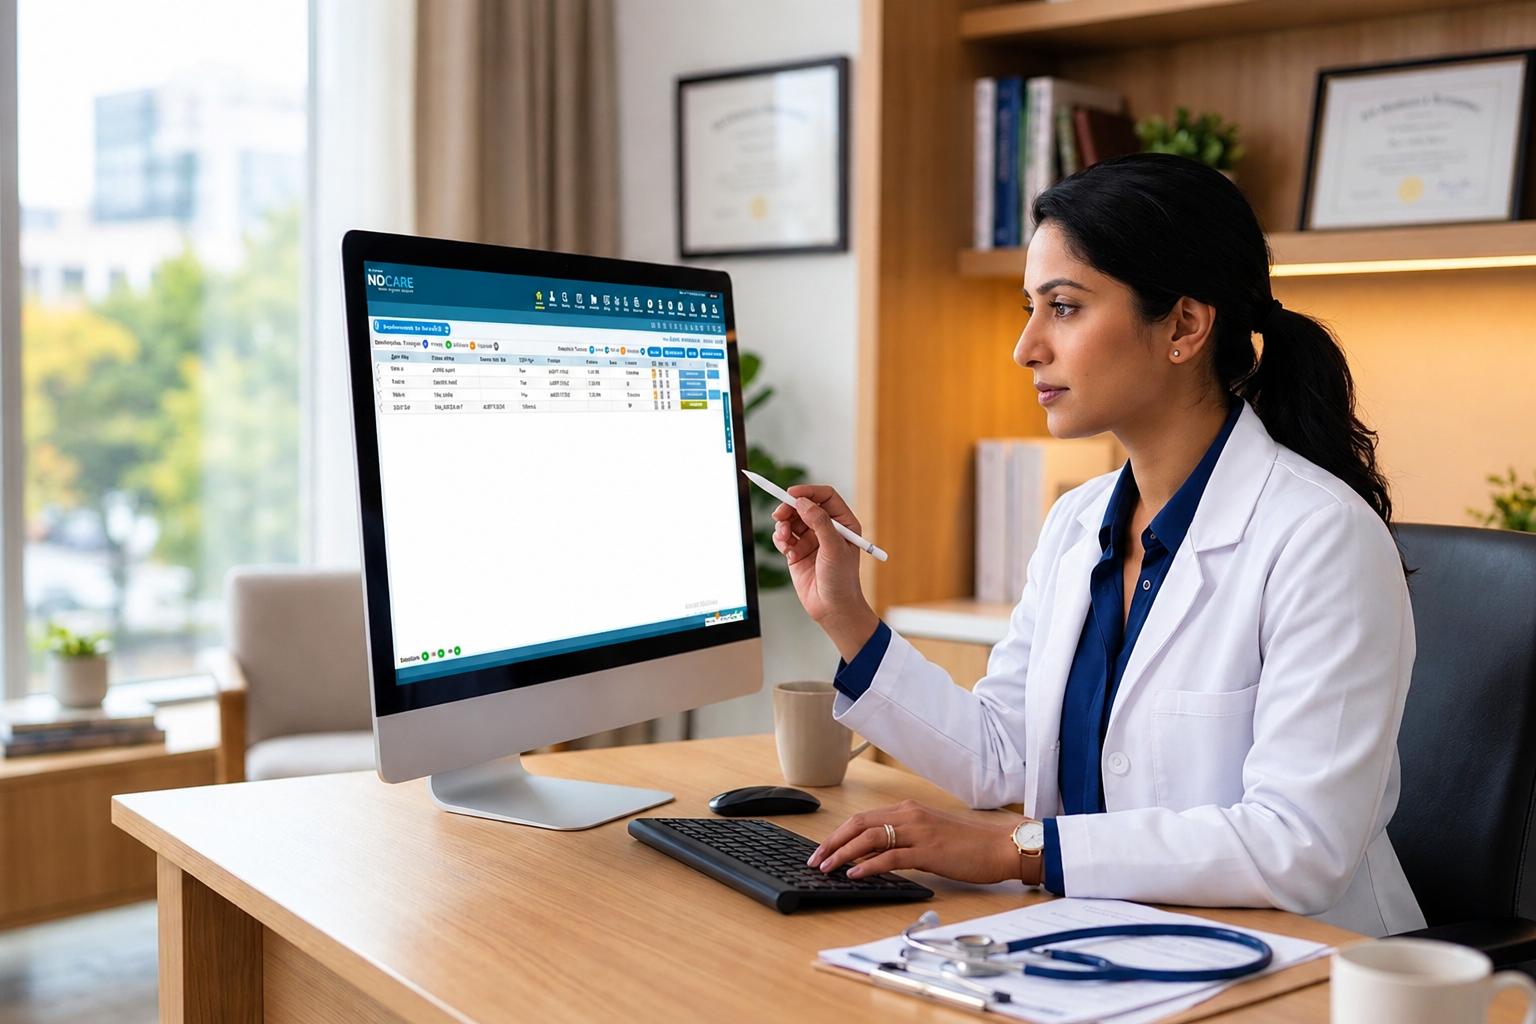
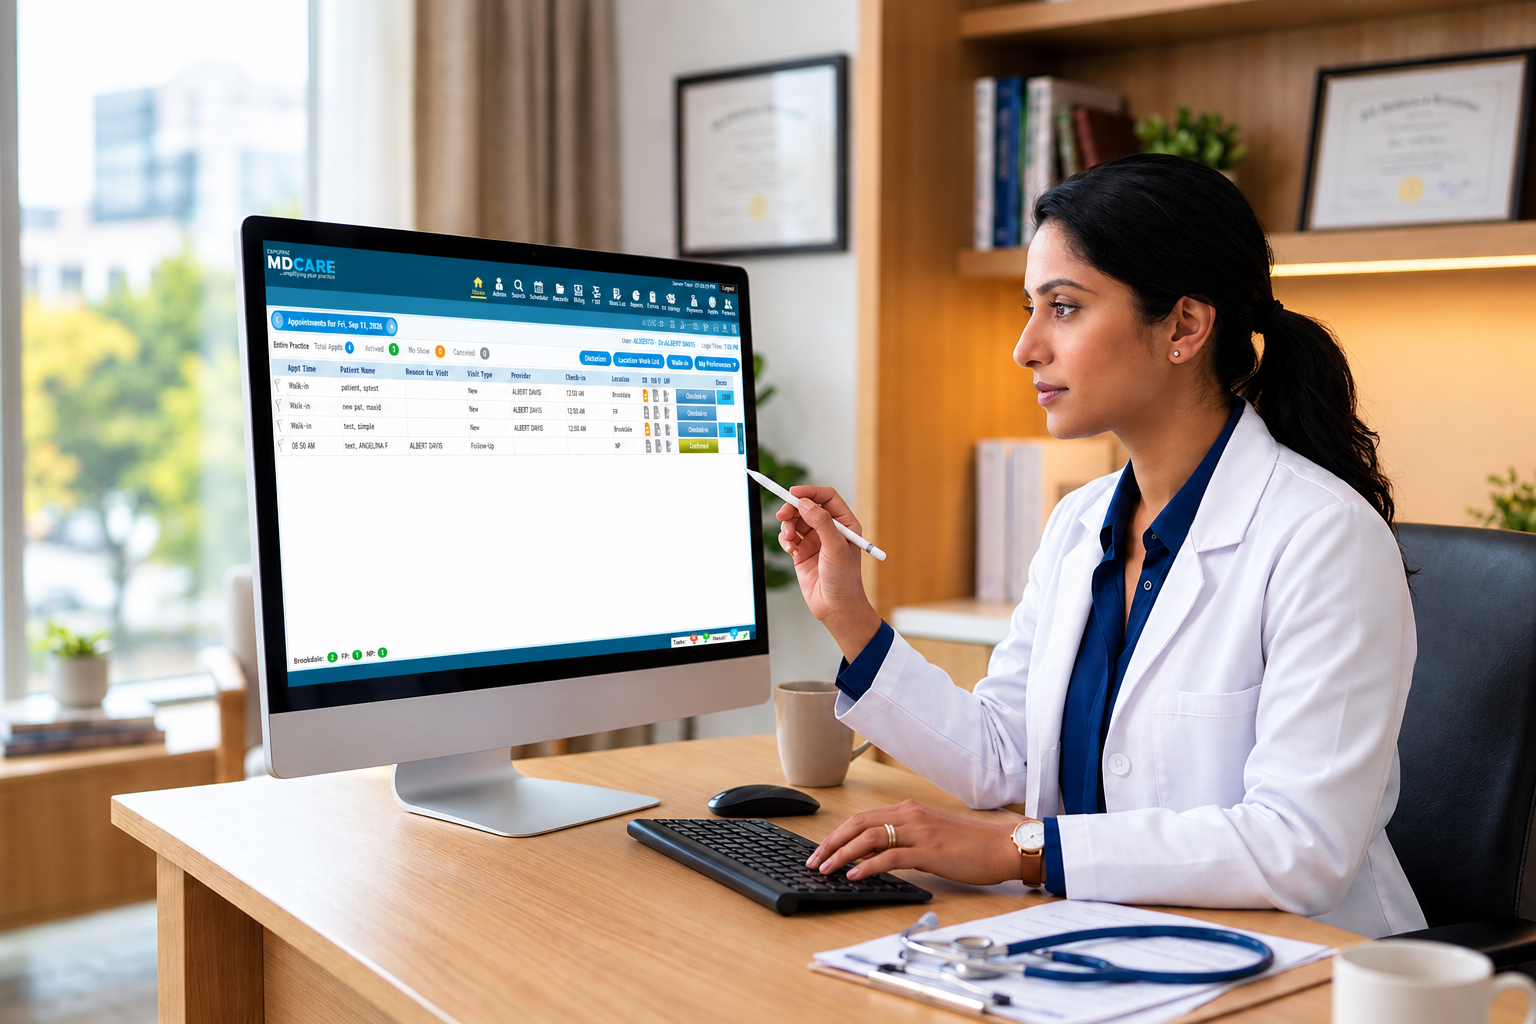
new
new

diff --git a/mdcarenewsite1/index.html b/mdcarenewsite1/index.html
@@ -37,7 +37,7 @@
 
       <a href="index.html" class="logo d-flex align-items-center me-auto me-xl-0">
 
-        <img src="assets/img/logo-w1.png" alt="" class="img-fluid w-100  logo-w">
+        <!-- <img src="assets/img/logo-w1.png" alt="" class="img-fluid w-100  logo-w"> -->
          <img src="assets/img/logo.png" alt="" class="img-fluid w-100  logo-normal">
 
       </a>
@@ -214,7 +214,7 @@
               </div>
             </div>
           </div>
-          <div class="carousel-item ">
+          <!-- <div class="carousel-item ">
             <img src="assets/img/slider/hero-bg2new.jpg" class="slider-home-bg" alt="Welcome to Our Website">
 
             <div class="carousel-caption">
@@ -242,7 +242,7 @@
                 </div>
               </div>
             </div>
-          </div>
+          </div> -->
 
           <!-- Slide 2 -->
           <!-- <div class="carousel-item">
@@ -301,16 +301,16 @@
         </div>
 
         <!-- Previous Button -->
-        <button class="carousel-control-prev" type="button" data-bs-target="#heroCarousel" data-bs-slide="prev">
+        <!-- <button class="carousel-control-prev" type="button" data-bs-target="#heroCarousel" data-bs-slide="prev">
           <span class="carousel-control-prev-icon" aria-hidden="true"></span>
           <span class="visually-hidden">Previous</span>
-        </button>
+        </button> -->
 
         <!-- Next Button -->
-        <button class="carousel-control-next" type="button" data-bs-target="#heroCarousel" data-bs-slide="next">
+        <!-- <button class="carousel-control-next" type="button" data-bs-target="#heroCarousel" data-bs-slide="next">
           <span class="carousel-control-next-icon" aria-hidden="true"></span>
           <span class="visually-hidden">Next</span>
-        </button>
+        </button> -->
 
       </div>
 

diff --git a/mdcarenewsite1/assets/css/main.css b/mdcarenewsite1/assets/css/main.css
@@ -585,11 +585,11 @@ a:hover {
   --nav-color: #3a3939;
   --nav-hover-color: #00aeef;
 }
-.logo-normal{ display: none;}
+/* .logo-normal{ display: none;}
 .logo-w{ display: none;}
 .index-page .logo-w{ display: block;}
 .index-page.scrolled .logo-normal{ display: block;}
-.index-page.scrolled .logo-w { display: none;}
+.index-page.scrolled .logo-w { display: none;} */
 
 .navmenu .dropdown ul a:hover, .navmenu .dropdown ul .active:hover, .navmenu .dropdown ul li:hover>a{  color: var(--text-secondary) !important;}
 /*--------------------------------------------------------------
@@ -3409,7 +3409,7 @@ section,
   content: "";
   position: absolute;
   inset: 0;
-  background: rgba(0, 0, 0, 0.40);
+  background: rgba(0, 0, 0, 0.4);
   z-index: 1;
 }
 .hero-badges .badge-pill {
